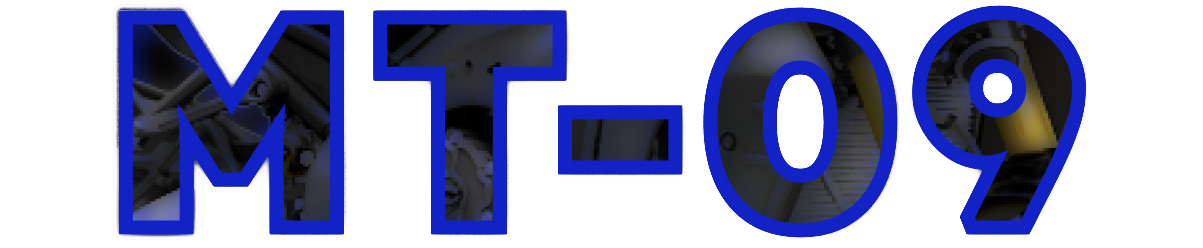
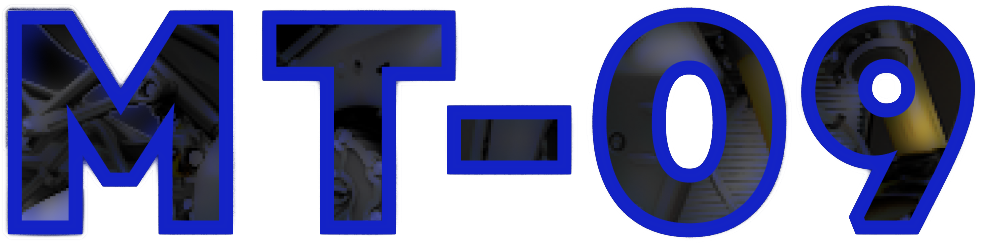
upd: css improve

diff --git a/Motostore/1-Layout_html/Store-main.html b/Motostore/1-Layout_html/Store-main.html
@@ -7,7 +7,7 @@
         <link rel = "stylesheet" content = "text/css" href="../2-Styles_css/Style-main.css">-->
     </head>
     <body>
-        <img class="bg" src="../Motostore_res/index_bg.png">-->
+        <img class="bg" src="../Motostore_res/index_bg.jpg">-->
         <div class="head1">             <!-- head_fixed -->
             <img class="menu" src = "../Motostore_res/menu.png">
             <img class="logo_img" src = "../Motostore_res/logo.png">
@@ -15,14 +15,20 @@
             <a href="Empty_contact.html"><img class="call" src="../Motostore_res/Call_def.png"></a>
         </div>
         <table align="center">
-            <tr>
-                <td height = "800px" align="center"><a href="MT-03_lemma.html"><img class="index_link" src="../Motostore_res/MT-03.png"></a></td>
+            <tr align="center">
+                <td height = "800px"><a href="MT-03_lemma.html">
+                    <img class="index_link_text" src="../Motostore_res/MT-03_text.png">
+                    <img class="index_link" src="../Motostore_res/MT-03.png"></a></td>
             </tr>
             <tr>
-                <td height = "800px" align="center"><a href="MT-09_lemma.html"><img class="index_link" src="../Motostore_res/MT-09.png"></a></td>
+                <td height = "800px" align="center"><a href="MT-09_lemma.html">
+                    <img class="index_link_text" src="../Motostore_res/MT-09_text.png">
+                    <img class="index_link" src="../Motostore_res/MT-09.png"></a></td>
             </tr>
             <tr>
-                <td height = "800px" align="center"><a href="YZF-R7_lemma.html"><img class="index_link" src="../Motostore_res/YZF-R7.png"></a></td>
+                <td height = "800px" align="center"><a href="YZF-R7_lemma.html">
+                    <img class="index_link_text" src="../Motostore_res/YZF-R7_text.png">
+                    <img class="index_link" src="../Motostore_res/YZF-R7.png"></a></td>
             </tr>
         </table>
                

diff --git a/Motostore/2-Styles_css/Style-main.css b/Motostore/2-Styles_css/Style-main.css
@@ -2,17 +2,18 @@
     font-family: 'ReadexPro';
 src: url(../Motostore_res/ReadexPro-Variable.ttf);
 }
+
 .head1 {
-position: absolute;
-width: 100%;
-height: 80px;
-background-color: #000;
-position: fixed;
-right:0%;
-left: 0%;
-top: 0%;
-text-align: center;
-z-index: 10;
+    position: absolute;
+    width: 100%;
+    height: 80px;
+    background-color: #000;
+    position: fixed;
+    right:0%;
+    left: 0%;
+    top: 0%;
+    text-align: center;
+    z-index: 10;
 }
 
 .bg {
@@ -23,29 +24,29 @@ z-index: 10;
     left: 0%;
     width: 100%;
     z-index: -10000;
-    }
+}
 
 .menu{
-width: 260px;
-height: 75px;
-position: absolute;
-left: 50px;
+    width: 260px;
+    height: 75px;
+    position: absolute;
+    left: 50px;
 }
 
 .logo_text{
-font-family: 'ReadexPro';
-font-weight: bold;
-font-size: 35px;
-color: #fff;
-top: -17px;
-position: relative;
+    font-family: 'ReadexPro';
+    font-weight: bold;
+    font-size: 35px;
+    color: #fff;
+    top: -17px;
+    position: relative;
 }
 
 .logo_img{
-position: relative;
-top: 5px;
-width: 70px;
-height: 70px;
+    position: relative;
+    top: 5px;
+    width: 70px;
+    height: 70px;
 }
 
 .call {
@@ -59,7 +60,7 @@ height: 70px;
 .basement {
     position: fixed;
     width: 100%;
-    top: 90%;
+    bottom: 10%;
     text-align: center;
     font-family: "ReadexPro";
     color: #555555;
@@ -75,14 +76,18 @@ height: 70px;
     color: #fff;
 }
 
-link.link {
-    width: 100;
-}
-
 img.index_link {
-    margin-left: auto;
-    margin-right: auto;  
+    position: absolute;
+    
+    left: 30%; 
     width: 640px; 
     height: 494px;
+}
 
+img.index_link_text {
+    position: absolute;
+    left: 30%;
+    height: 120px;
+    width: 500px;
+    z-index: 1;
 }
